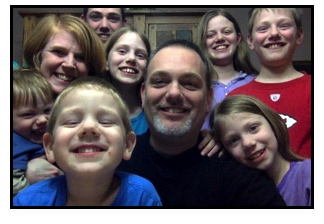
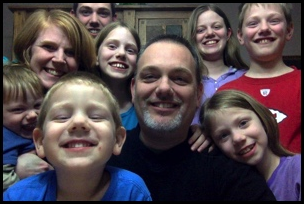
img fix not smushed

diff --git a/css/agency.css b/css/agency.css
@@ -508,8 +508,8 @@ header.masthead {
   margin-bottom: 50px;
   text-align: center; }
   .team-member img {
-    width: 225px;
-    height: 225px;
+    width: 322px;
+    height: 254px;
     border: 7px solid #fff; }
   .team-member h4 {
     margin-top: 25px;

diff --git a/vendor/bootstrap/css/bootstrap.css b/vendor/bootstrap/css/bootstrap.css
@@ -5798,6 +5798,8 @@ a.bg-dark:focus, a.bg-dark:hover {
 
 .rounded {
   border-radius: 0.25rem !important;
+  height: 340px;
+  width: 500px;
 }
 
 .rounded-top {
